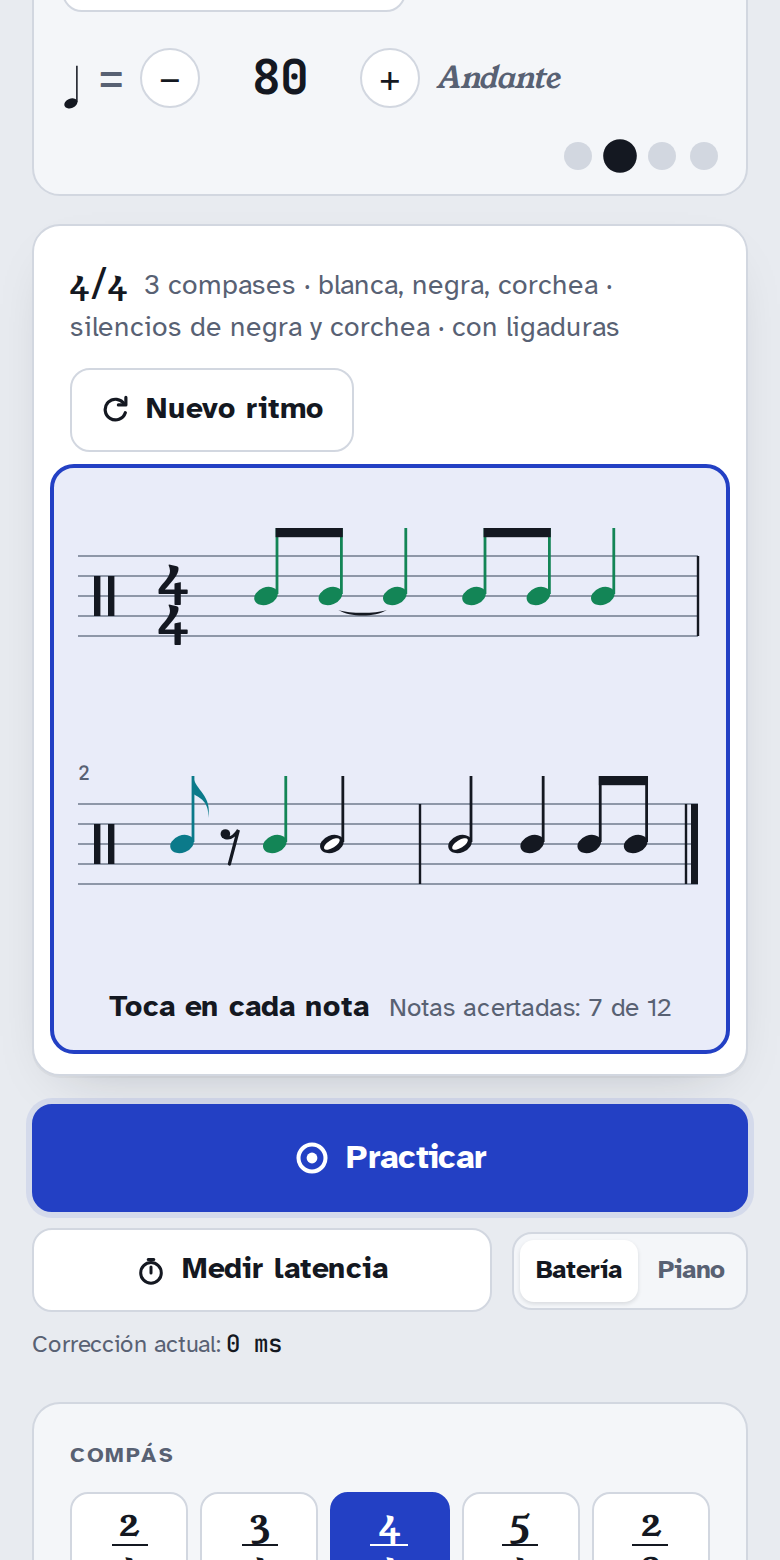
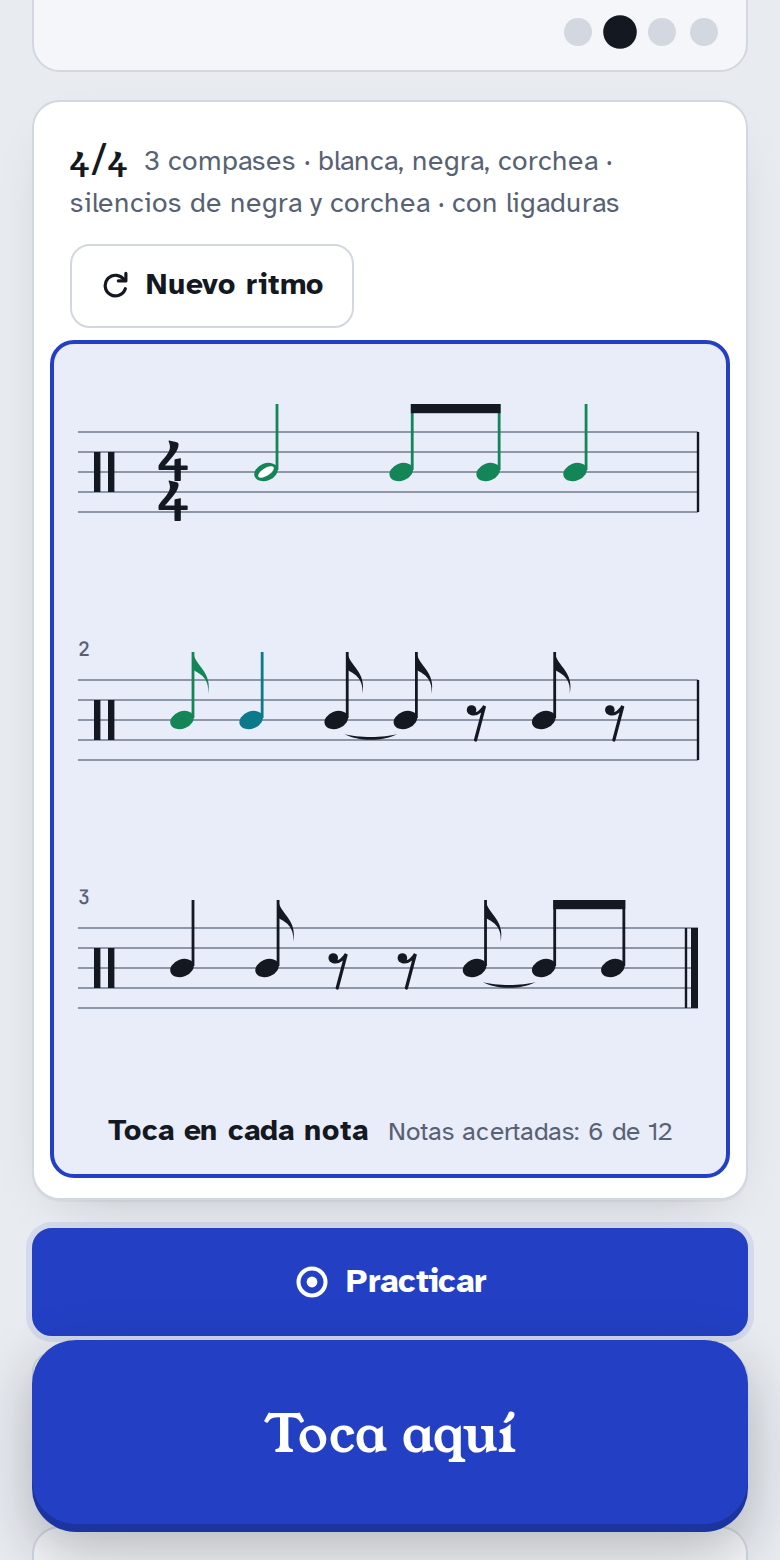
Botón flotante para tocar en móvil y tableta; empezar la práctica tocando
- En pantallas táctiles aparece un botón grande fijo abajo: durante la práctica
  o la medición recibe los toques (igual que la partitura, también mantenido en
  modo piano) y no se mueve cuando la partitura cambia de línea. Muestra la
  cuenta previa. Se puede desactivar en Práctica.
- En reposo el botón dice «Practicar» (solo con la partitura a la vista) y, al
  igual que tocar la partitura, empieza la práctica. Se usa click, así que
  desplazar la página con el dedo no empieza nada.
- El seguimiento de la partitura deja la línea actual y la siguiente por encima
  del botón.
- README, CLAUDE.md y capturas actualizados.

Claude-Session: https://claude.ai/code/session_01KR51CwVVXhtFmUshsMceNd

diff --git a/index.html b/index.html
@@ -188,6 +188,7 @@
         <label class="sw"><input type="checkbox" id="holdSw"><span class="track"></span><span>Modo piano: medir la duración<small>Mantén pulsada la tecla o la pantalla mientras dura cada nota y suelta al terminar.</small></span></label>
         <label class="sw"><input type="checkbox" id="tapSound"><span class="track"></span><span>Oír mis toques<small>Cada toque suena: en modo piano, mientras lo mantienes. Con auriculares Bluetooth lo oirás con algo de retraso.</small></span></label>
         <div class="field" id="tapVolField"><span class="rlabel">Volumen de mis toques <output id="tapVolOut"></output></span><input type="range" id="tapVol" min="0" max="1" step="0.05" aria-label="Volumen de mis toques"></div>
+        <label class="sw"><input type="checkbox" id="fab"><span class="track"></span><span>Botón flotante para tocar<small>En móvil y tableta, mientras practicas aparece un botón grande abajo de la pantalla. Toca ahí en vez de sobre la partitura, que se desplaza al cambiar de línea.</small></span></label>
         <label class="sw"><input type="checkbox" id="autosave"><span class="track"></span><span>Guardar cada práctica automáticamente<small>Si lo desactivas, podrás guardar cada resultado a mano.</small></span></label>
         <div class="field"><span class="rlabel">Ajuste de latencia <output id="offsetOut"></output></span><input type="range" id="offset" min="-150" max="250" step="5" aria-label="Ajuste de latencia"></div>
         <p class="hint">Si siempre te marca «tarde» aunque vayas a tiempo (pasa con auriculares Bluetooth), sube este valor, o usa «Medir latencia» junto a la zona de toque para calcularlo automáticamente.</p>
@@ -220,6 +221,8 @@
     </div>
   </section>
 </div>
+
+<button type="button" class="fab" id="tapFab" hidden aria-label="Tocar"><span class="fab-main" id="fabMain">Toca aquí</span></button>
 
 <script>
 (() => {
@@ -335,7 +338,7 @@ function restList(C){ return Array.isArray(C.rests) ? C.rests : (C.rests ? C.fig
 
 const DEFAULTS = {sig:'4/4', bars:4, figs:['h','q','e'], rests:['h','q','e'], sound:true, cursor:true, loop:false,
   timbre:'tono', rhythmVol:0.6, bpm:80, metro:true, accent:true, sub:'0', countIn:'1', metroVol:0.7, offset:0,
-  autosave:true, view:'libre', level:0, levelId:'', penalize:true, hold:false, ties:false, tapSound:false, tapVol:0.6, grp:{}};
+  autosave:true, view:'libre', level:0, levelId:'', penalize:true, hold:false, ties:false, tapSound:false, tapVol:0.6, grp:{}, fab:true};
 let set = load();
 function load(){
   try{ const raw = localStorage.getItem(KEY); if(raw){ const o = JSON.parse(raw); const s = Object.assign({}, DEFAULTS, o); if(!SIGS[s.sig]) s.sig='4/4'; s.grp = (s.grp && typeof s.grp==='object') ? {...s.grp} : {}; if(!Array.isArray(s.figs)||!s.figs.length) s.figs=[...DEFAULTS.figs]; s.rests=restList(s).filter(k=>REST_KEYS.includes(k)); return s; } }catch(e){}
@@ -634,7 +637,7 @@ function setBpm(v, fromUser=true){
   if(fromUser){ save(); if(S.running && S.mode!=='metro') stop(); }
 }
 function syncControls(){
-  ['ties','sound','cursor','loop','metro','accent','tapSound'].forEach(id=>{ $('#'+id).checked=!!set[id]; });
+  ['ties','sound','cursor','loop','metro','accent','tapSound','fab'].forEach(id=>{ $('#'+id).checked=!!set[id]; });
   $('#timbre').value=set.timbre; $('#sub').value=set.sub; $('#countIn').value=set.countIn;
   $('#rhythmVol').value=set.rhythmVol; $('#metroVol').value=set.metroVol; $('#tapVol').value=set.tapVol; syncTapVol(); $('#offset').value=set.offset;
   $('#bars').textContent=set.bars;
@@ -797,7 +800,7 @@ function followScore(i){
   const el=evEls[i], sys=el && el.closest('svg.sys'); if(!sys || sys===S.sysEl) return;
   S.sysEl=sys;
   const nxt=sys.nextElementSibling, top=sys.getBoundingClientRect().top, bottom=(nxt||sys).getBoundingClientRect().bottom;
-  if(top<8 || bottom>innerHeight-8) scrollTo({top:scrollY+top-16, behavior:'smooth'});
+  if(top<8 || bottom>innerHeight-fabReserve()) scrollTo({top:scrollY+top-16, behavior:'smooth'});
 }
 function setLight(i){
   if(i===S.light) return;
@@ -807,6 +810,7 @@ function setLight(i){
   if(i>=0 && ls[i]) ls[i].classList.add('on');
 }
 function showCount(c){
+  const fm=$('#fabMain'), ft=c?String(c):'Toca aquí'; if(fm.textContent!==ft){ fm.textContent=ft; fm.classList.toggle('count',!!c); }
   const el=$('#padCount');
   if(c){ el.textContent=c; el.hidden=false; } else el.hidden=true;
 }
@@ -850,10 +854,11 @@ function finish(){
   const wasPractice=S.mode==='practice';
   const notes=S.notes, holds=S.hold?[...S.holds.values()]:null, endT=ctx?ctx.currentTime:0;
   stop();
-  $('#pad').classList.remove('held');
+  setHeld(false);
   if(wasPractice) showResults(notes, holds, endT);
 }
 function updateTransport(){
+  updateFab();
   const r=S.running, m=S.mode;
   $('#bStop').disabled=!r;
   $('#bPlay').classList.toggle('active',r&&m==='play');
@@ -863,13 +868,15 @@ function updateTransport(){
 }
 
 /* ---------- Práctica ---------- */
+const tapZones=()=>[$('#pad'),$('#tapFab')];
 function flashPad(cls){
-  const p=$('#pad'); p.classList.remove('hit','miss'); void p.offsetWidth; p.classList.add(cls);
+  tapZones().forEach(p=>{ p.classList.remove('hit','miss'); void p.offsetWidth; p.classList.add(cls); });
 }
+function setHeld(on){ tapZones().forEach(p=>p.classList.toggle('held',on)); }
 function tap(src){
   if(S.running && S.mode==='calib'){ calibTap(); return; }
   tapSoundOn(src||'x');
-  if(S.running && S.mode==='practice' && S.hold){ S.holds.set(src||'x',{note:null,t:ctx.currentTime}); $('#pad').classList.add('held'); }
+  if(S.running && S.mode==='practice' && S.hold){ S.holds.set(src||'x',{note:null,t:ctx.currentTime}); setHeld(true); }
   if(!S.running || S.mode!=='practice'){ flashPad('hit'); return; }
   const now=ctx.currentTime;
   if(now < S.passStart+S.lat-0.25) return; // durante la cuenta
@@ -900,7 +907,7 @@ function release(src){
   if(!S.running || S.mode!=='practice' || !S.hold) return;
   const h=S.holds.get(src||'x'); if(!h) return;
   S.holds.delete(src||'x');
-  if(!S.holds.size) $('#pad').classList.remove('held');
+  if(!S.holds.size) setHeld(false);
   if(h.note) judgeRelease(h.note, h.t, ctx.currentTime);
 }
 function judgeRelease(n, tPress, tRel){
@@ -959,14 +966,32 @@ function showResults(notes, holds, endT){
 /* ---------- Medición de latencia ---------- */
 const K_BPM=90, K_LEAD=4, K_N=16;
 let K={suggest:null};
+// Botón flotante: solo en pantallas táctiles (móvil, tableta) y si el ajuste está activo
+const touchMQ = matchMedia('(any-pointer: coarse)');
+const fabWanted = () => !!set.fab && touchMQ.matches;
+// En reposo el botón dice «Practicar» (solo si la partitura está a la vista); durante la práctica o la medición, «Toca aquí»
+let padInView=false;
+function updateFab(){
+  const f=$('#tapFab'), fm=$('#fabMain'), live=S.running && (S.mode==='practice'||S.mode==='calib');
+  const on=fabWanted() && (live || (!S.running && padInView));
+  f.hidden=!on; document.body.classList.toggle('fab-on',on); f.classList.toggle('idle',on && !live);
+  f.setAttribute('aria-label', live ? 'Tocar' : 'Practicar');
+  if(on && !live){ fm.textContent='Practicar'; fm.classList.remove('count'); }
+  else if(on && fm.textContent==='Practicar') fm.textContent='Toca aquí';
+}
+new IntersectionObserver(es=>{ padInView=es[es.length-1].isIntersecting; updateFab(); }).observe($('#pad'));
+// Alto de la parte inferior de la pantalla que tapa el botón flotante (para el seguimiento de la partitura)
+function fabReserve(){ const f=$('#tapFab'); return f.hidden ? 8 : innerHeight-f.getBoundingClientRect().top+12; }
 function showPad(){
+  updateFab();
   const p=$('#pad'), r=p.getBoundingClientRect();
   p.focus({preventScroll:true});
-  if(r.top<0 || r.bottom>innerHeight) p.scrollIntoView({block:r.height>innerHeight?'start':'center',behavior:'smooth'});
+  const room=innerHeight-fabReserve();
+  if(r.top<0 || r.bottom>room) p.scrollIntoView({block:r.height>room?'start':'center',behavior:'smooth'});
 }
 function padIdle(){
   $('#pad').classList.remove('live');
-  $('#padMain').textContent='Pulsa «Practicar» y toca sobre la partitura en cada nota';
+  $('#padMain').textContent='Toca la partitura (o «Practicar») para empezar, y luego toca sobre ella en cada nota';
   $('#padSub').textContent='También puedes usar el teclado evita la barra espaciadora. Antes de empezar suena la cuenta.';
 }
 function startCalib(){
@@ -1364,13 +1389,22 @@ $('#kApply').addEventListener('click',()=>{
   $('#kApply').disabled=true; $('#kApply').textContent='Corrección aplicada';
 });
 // La partitura es la zona de toque, pero solo durante la práctica o la medición: en reposo se puede desplazar y seleccionar con normalidad
-$('#pad').addEventListener('pointerdown',e=>{
-  if(!S.running || (S.mode!=='practice' && S.mode!=='calib')) return;
-  if(e.button>0) return;
-  e.preventDefault(); try{ $('#pad').setPointerCapture(e.pointerId); }catch(_){} tap('p'+e.pointerId);
-});
-['pointerup','pointercancel','lostpointercapture'].forEach(t=>$('#pad').addEventListener(t,e=>release('p'+e.pointerId)));
-$('#pad').addEventListener('contextmenu',e=>{ if(S.running) e.preventDefault(); });
+function bindTapZone(el,pre){
+  // En reposo, un clic (no un arrastre para desplazar la página) empieza la práctica. Se ignora el clic que
+  // cierra un toque empezado durante la práctica, para no volver a empezar al soltar después del final.
+  let downWhileRunning=false;
+  el.addEventListener('click',()=>{ if(!S.running && !downWhileRunning) start('practice'); downWhileRunning=false; });
+  el.addEventListener('pointerdown',e=>{
+    downWhileRunning=S.running;
+    if(!S.running || (S.mode!=='practice' && S.mode!=='calib')) return;
+    if(e.button>0) return;
+    e.preventDefault(); try{ el.setPointerCapture(e.pointerId); }catch(_){} tap(pre+e.pointerId);
+  });
+  ['pointerup','pointercancel','lostpointercapture'].forEach(t=>el.addEventListener(t,e=>release(pre+e.pointerId)));
+  el.addEventListener('contextmenu',e=>{ if(S.running) e.preventDefault(); });
+}
+bindTapZone($('#pad'),'p'); bindTapZone($('#tapFab'),'f');
+$('#fab').addEventListener('change',e=>{ set.fab=e.target.checked; save(); updateFab(); });
 const isField=el=>el && (el.tagName==='INPUT'||el.tagName==='SELECT'||el.tagName==='TEXTAREA');
 document.addEventListener('keydown',e=>{
   if(e.metaKey||e.ctrlKey||e.altKey||e.repeat) return;

diff --git a/styles.css b/styles.css
@@ -273,7 +273,20 @@ td.num,th.num{text-align:right;font-family:var(--mono);font-variant-numeric:tabu
 .confirm{display:flex;gap:8px;align-items:center;flex-wrap:wrap;font-size:13px}
 @media (max-width:520px){ .tabs{width:100%} .tab{flex:1 1 auto;justify-content:center;padding:8px 6px;font-size:14px} .tab svg{display:none} .tiles{grid-template-columns:repeat(2,minmax(0,1fr))} .tile .big{font-size:28px} }
 @media (max-width:560px){ .level-bar{grid-template-columns:auto minmax(0,1fr) auto;gap:8px;padding:12px} .level-bar h2{font-size:21px} }
+/* botón flotante para tocar (móvil y tableta) */
+.fab{position:fixed;left:50%;bottom:calc(14px + env(safe-area-inset-bottom));transform:translateX(-50%);z-index:50;width:min(440px,calc(100vw - 32px));height:96px;border:0;border-radius:22px;background:var(--accent);color:var(--accent-ink);font:700 22px/1 var(--sans);display:flex;align-items:center;justify-content:center;box-shadow:0 10px 28px rgba(20,24,33,.28),inset 0 -4px 0 rgba(0,0,0,.18);cursor:pointer;touch-action:none;user-select:none;-webkit-user-select:none;-webkit-touch-callout:none;-webkit-tap-highlight-color:transparent}
+.fab-main{font-family:var(--serif);font-weight:400;font-size:26px;letter-spacing:.01em;pointer-events:none}
+.fab-main.count{font-size:52px}
+.fab.idle{height:72px;background:var(--ink);color:var(--paper)}
+.fab.idle .fab-main{font-family:var(--sans);font-weight:700;font-size:20px}
+#pad:not(.live){cursor:pointer}
+.fab.held{box-shadow:0 4px 12px rgba(20,24,33,.25),inset 0 0 0 4px rgba(255,255,255,.55);filter:brightness(1.12)}
+.fab.hit{animation:fabhit .16s ease-out}
+.fab.miss{animation:fabmiss .22s ease-out}
+@keyframes fabhit{from{transform:translateX(-50%) scale(.965)}to{transform:translateX(-50%) scale(1)}}
+@keyframes fabmiss{from{background:var(--bad)}to{background:var(--accent)}}
+body.fab-on{padding-bottom:140px}
 @media (prefers-reduced-motion: reduce){
-  .pad.hit,.pad.miss{animation:none}
+  .pad.hit,.pad.miss,.fab.hit,.fab.miss{animation:none}
   .light,.btn,.track,.track::after{transition:none}
 }

diff --git a/README.md b/README.md
@@ -29,14 +29,14 @@ Abre `index.html` en el navegador (junto a `styles.css`, en la misma carpeta). N
 3. **Tempo:** con − / +, escribiendo el número o marcándolo con toques.
 4. **Escuchar:** *Reproducir* toca el ritmo con el metrónomo para que lo oigas antes de practicarlo. *Nuevo ritmo* (o la tecla <kbd>N</kbd>) genera otro.
 5. **Partitura:** además de leerla, es donde tocas.
-6. **Practicar:** empieza la cuenta previa y la evaluación.
+6. **Practicar:** empieza la cuenta previa y la evaluación. También puedes empezar tocando directamente la partitura.
 7. **Batería / Piano:** en *Batería* solo cuenta cuándo tocas cada nota; en *Piano* también cuánto la mantienes pulsada.
 
 ### 2. Toca sobre la partitura
 
 ![Práctica en curso: la partitura se enmarca en azul y las notas tocadas se colorean](docs/capturas/2-practicando.png)
 
-Al pulsar *Practicar*, la partitura se enmarca en azul y suena la cuenta previa (el número aparece sobre la partitura). Después, **toca sobre la partitura en cada nota**: con el dedo, con el ratón o con la barra espaciadora (en realidad sirve cualquier tecla).
+Al pulsar *Practicar* (o tocar la partitura), la partitura se enmarca en azul y suena la cuenta previa (el número aparece sobre la partitura). Después, **toca sobre la partitura en cada nota**: con el dedo, con el ratón o con la barra espaciadora (en realidad sirve cualquier tecla). En móvil y tableta también puedes usar el botón flotante de abajo.
 
 1. **Pulso:** las luces siguen al metrónomo.
 2. **Nota actual:** el cursor marca la nota que suena; las que ya tocaste se colorean según tu precisión.
@@ -75,6 +75,6 @@ Resumen de tus prácticas, gráfica de precisión con la media de las últimas c
 
 <img src="docs/capturas/6-movil.png" alt="La app en un móvil durante la práctica" width="300">
 
-En pantallas pequeñas el panel de opciones pasa debajo. Al pulsar *Practicar*, la página se desplaza para que la partitura quede entera a la vista.
+En pantallas pequeñas el panel de opciones pasa debajo. En móvil y tableta aparece un **botón grande abajo de la pantalla** mientras la partitura está a la vista. En reposo dice *Practicar* y empieza la práctica; durante la práctica dice *Toca aquí* y es donde tocas: no se mueve cuando la partitura cambia de línea, así no tocas fuera por error (también muestra la cuenta previa y, en modo piano, se mantiene pulsado). Si prefieres tocar sobre la partitura, desactívalo en *Práctica → Botón flotante para tocar*.
 
 Para el detalle técnico, consulta [`CLAUDE.md`](CLAUDE.md).

diff --git a/CLAUDE.md b/CLAUDE.md
@@ -27,6 +27,10 @@ Nació como un Artifact publicado en claude.ai. Allí el progreso se guardaba en
 
 **Zona de toque:** es la propia partitura. `#pad` envuelve `#score`, la cuenta previa (`#padCount`, superpuesta) y la línea de estado (`#padMain` / `#padSub`). Los toques de puntero solo cuentan mientras hay práctica o medición de latencia; en reposo la partitura no captura el puntero, para que se pueda desplazar la página. Al empezar, `showPad()` enfoca la partitura y la desplaza a la vista si hace falta.
 
+**Empezar tocando:** en reposo, un `click` en la partitura o en el botón flotante llama a `start('practice')` (se usa `click` y no `pointerdown` para que desplazar la página con el dedo no empiece nada; se ignora el clic que cierra un toque empezado durante la práctica).
+
+**Botón flotante (`#tapFab`):** en pantallas táctiles (`(any-pointer: coarse)`) y con `set.fab` activo (por defecto), `updateFab()` lo muestra fijo abajo: en reposo dice «Practicar» y solo aparece si la partitura está a la vista (`IntersectionObserver` → `padInView`); durante la práctica o la medición dice «Toca aquí». Se llama desde `showPad()` y `updateTransport()`. `bindTapZone(el, prefijo)` da a la partitura (`p…`) y al botón (`f…`) el mismo manejo de `pointerdown/up` → `tap`/`release`; `flashPad` y `setHeld` actúan sobre las dos zonas; `showCount` pone también la cuenta en el botón. `fabReserve()` es el alto que tapa el botón y lo descuentan `showPad` y `followScore` para que la línea actual y la siguiente queden por encima.
+
 **Capturas del README:** están en `docs/capturas/`, hechas con Playwright (Chromium) a 1200 px (y 390 px ×2 la de móvil), con datos de ejemplo y marcadores numerados añadidos al DOM solo para la captura. Si cambia la interfaz, conviene rehacerlas.
 
 ## Convenciones y decisiones
